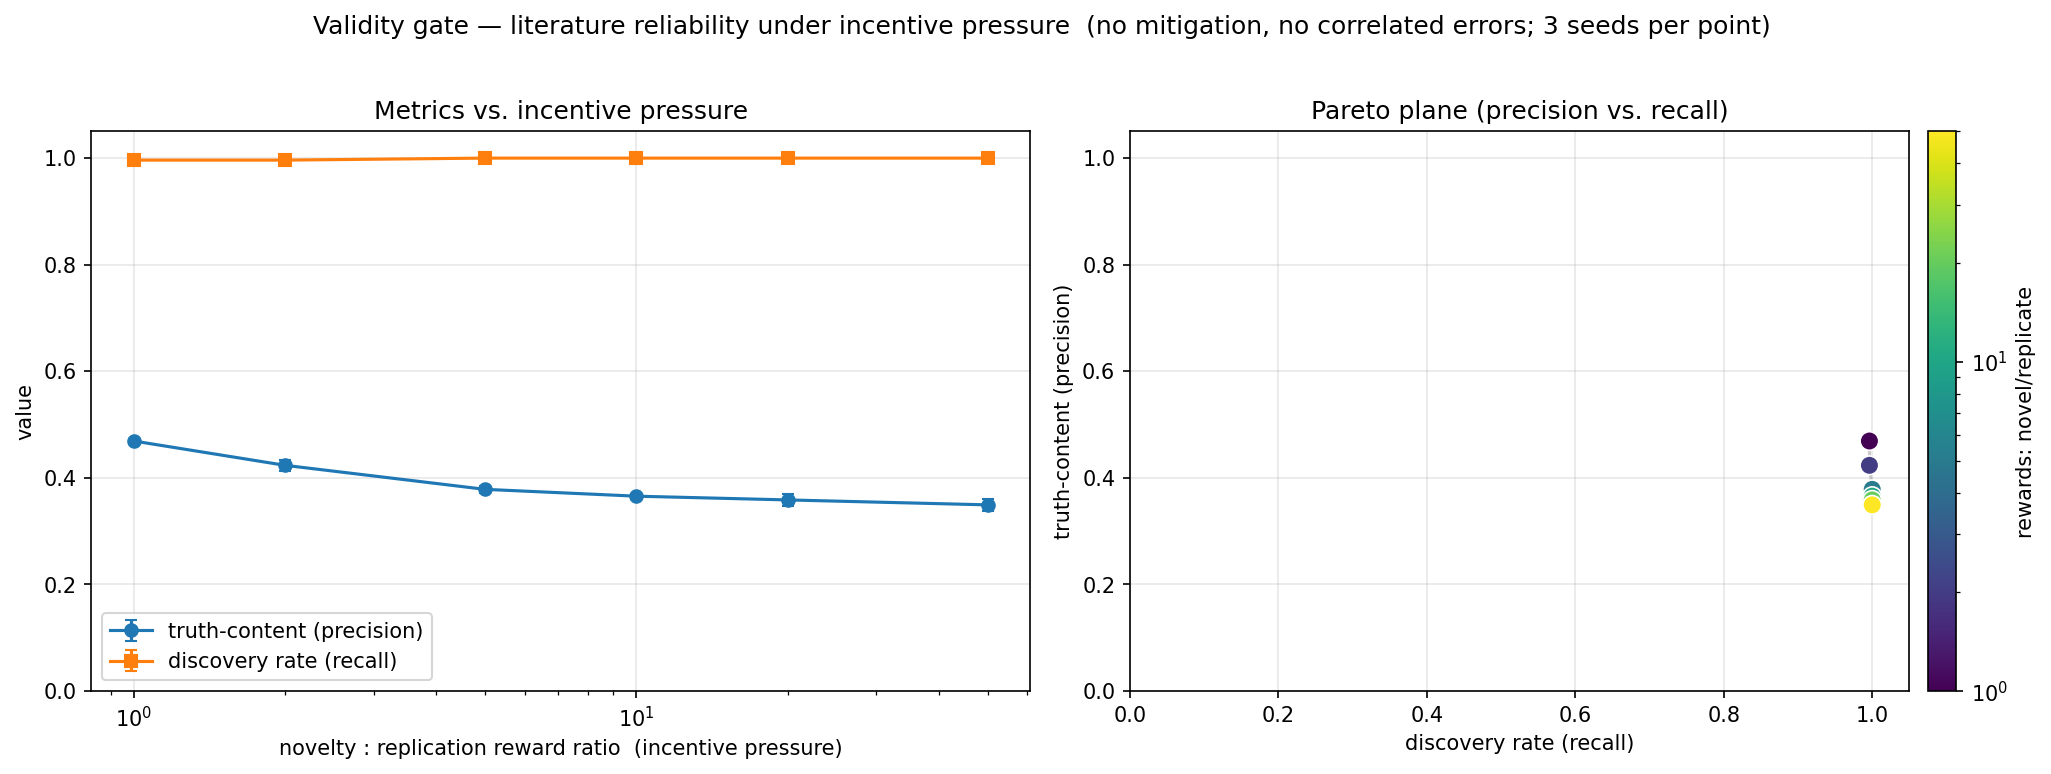
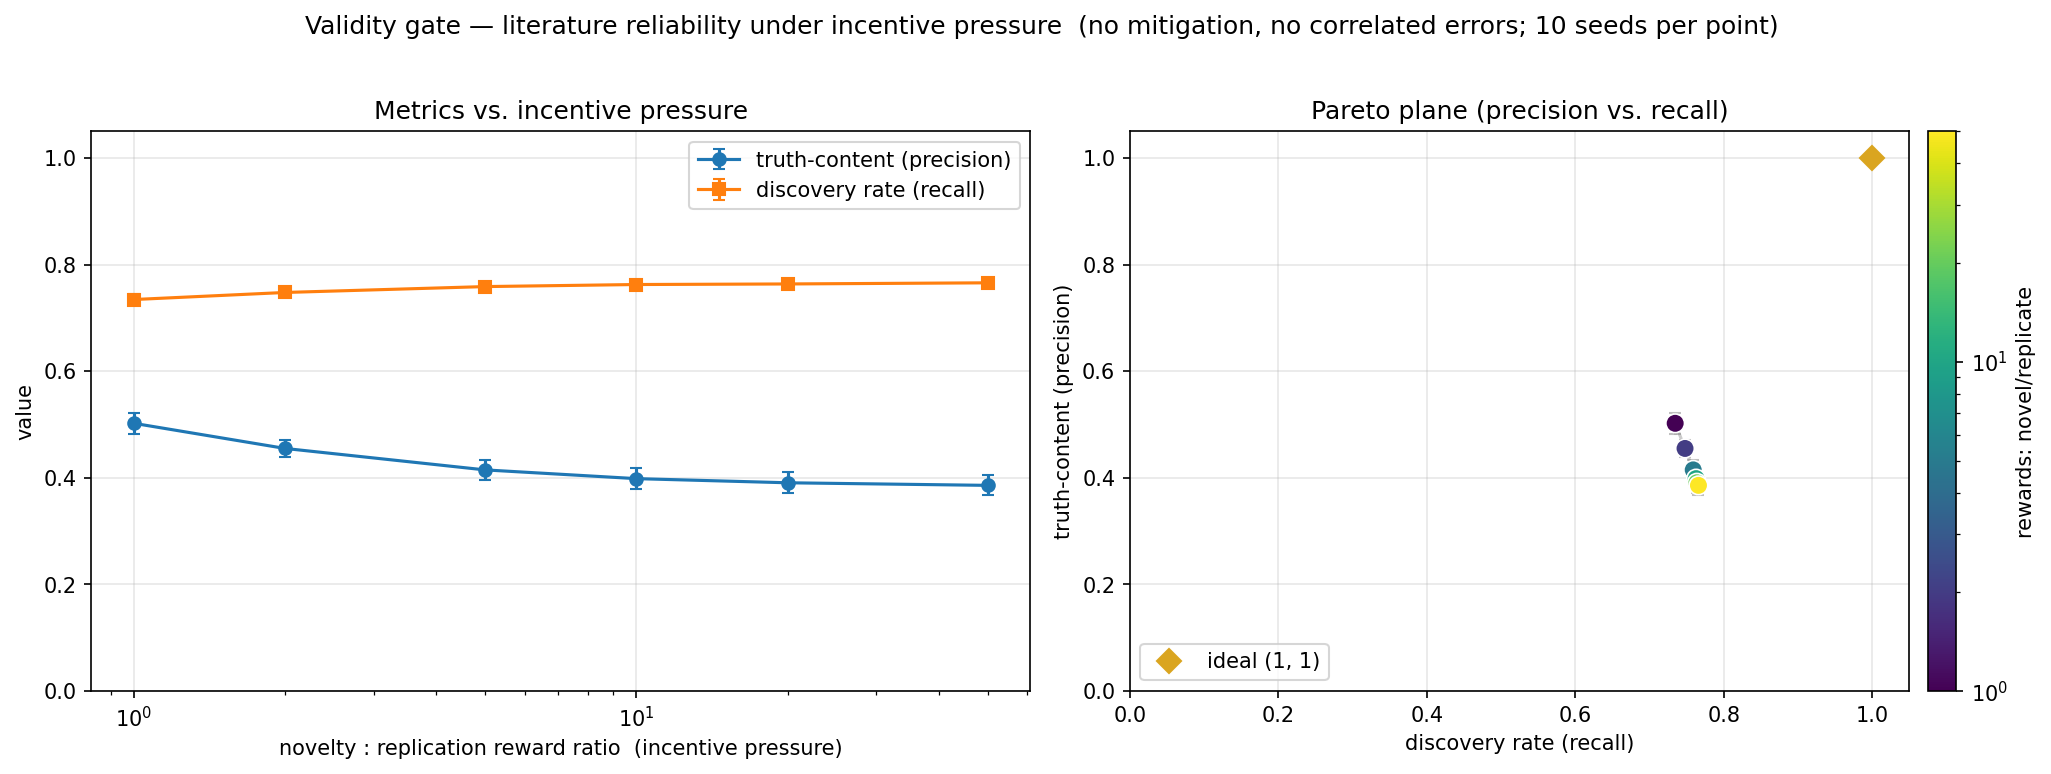
Phase 0: re-run at n_hypotheses=10000 for narrative consistency
Aligns Phase 0 with the Phase 1+ regime (vast hypothesis space, scarce
attention). Recall now sits in 0.73-0.77 instead of saturating at 1.0;
precision still falls from 0.50 to 0.39 across the novelty-weight sweep —
the validity-gate phenomenon is preserved and the example-runs README now
reads as one continuous experiment under one parameter regime.

Also bumped seeds 3 -> 10 to match Phase 1.C, added mark_ideal=True on the
Pareto plot for visual consistency.

diff --git a/scripts/run_baseline.py b/scripts/run_baseline.py
@@ -24,7 +24,7 @@ from __future__ import annotations
 import numpy as np
 import matplotlib.pyplot as plt
 
-from paper_chase.config import SimConfig, IncentiveConfig
+from paper_chase.config import SimConfig, IncentiveConfig, WorldConfig
 from paper_chase.simulation import run
 from paper_chase.plots import plot_metrics_vs_pressure, plot_pareto_plane
 from paper_chase.results_io import (
@@ -35,26 +35,35 @@ from paper_chase.results_io import (
 # Sweep the novelty reward, holding replication weight at 1.0. The ratio is the
 # "incentive pressure" axis: higher = stronger publish-or-perish.
 NOVELTY_WEIGHTS = [1.0, 2.0, 5.0, 10.0, 20.0, 50.0]
-N_SEEDS = 3                            # repeat each setting for sampling-variance control
+N_SEEDS = 10                           # repeat each setting for sampling-variance control
 REPLICATION_WEIGHT = 1.0
 EFFORT_COST_PER_SAMPLE = 0.02
+N_HYPOTHESES = 10_000                  # match Phase 1+ regime: a "vast hypothesis
+                                       # space, scarce attention" world where recall
+                                       # is not saturated — same parameter choice as
+                                       # the mitigation comparison, so the baseline
+                                       # → mitigations narrative reads as one
+                                       # continuous experiment.
 
 
 def main() -> None:
     # Per-run output directory.
-    params = f"nw{NOVELTY_WEIGHTS[0]:g}-{NOVELTY_WEIGHTS[-1]:g}_seeds{N_SEEDS}"
+    params = f"nw{NOVELTY_WEIGHTS[0]:g}-{NOVELTY_WEIGHTS[-1]:g}_seeds{N_SEEDS}_nh{N_HYPOTHESES}"
     run_dir = make_run_dir(experiment="baseline", params=params)
     print(f"Run dir: {run_dir}")
+
+    base_world = WorldConfig(n_hypotheses=N_HYPOTHESES, seed=0)
 
     # Save the full reproducibility record up front (config + sweep spec + git state).
     save_config_json(
         run_dir / "config.json",
-        base_cfg=SimConfig(),
+        base_cfg=SimConfig(world=base_world),
         sweep={
             "novelty_weights": list(NOVELTY_WEIGHTS),
             "n_seeds": N_SEEDS,
             "fixed_replication_weight": REPLICATION_WEIGHT,
             "fixed_effort_cost_per_sample": EFFORT_COST_PER_SAMPLE,
+            "n_hypotheses": N_HYPOTHESES,
         },
         git_state=capture_git_state(),
     )
@@ -68,6 +77,7 @@ def main() -> None:
         tcs, drs = [], []
         for seed in range(N_SEEDS):
             cfg = SimConfig(
+                world=base_world,
                 incentive=IncentiveConfig(
                     novel_weight=nw,
                     replication_weight=REPLICATION_WEIGHT,
@@ -110,6 +120,7 @@ def main() -> None:
         truth_means, truth_sds, discovery_means, discovery_sds,
         colorby=NOVELTY_WEIGHTS,
         colorby_label="rewards: novel/replicate",
+        mark_ideal=True,
         ax=ax_pareto,
     )
     fig.suptitle(

diff --git a/example-runs/README.md b/example-runs/README.md
@@ -9,25 +9,36 @@ versions. This is the public face of "what running this produces right now."
 ## Phase 0 — Validity gate
 
 **What was run.** Sweep of the novelty:replication reward ratio across
-{1, 2, 5, 10, 20, 50}, holding replication weight at 1.0; 3 seeds per
+{1, 2, 5, 10, 20, 50}, holding replication weight at 1.0; 10 seeds per
 condition. No mitigations, no correlated errors, parametric agents only.
+`n_hypotheses = 10,000` — the "vast hypothesis space, scarce attention"
+regime used throughout Phase 1+, so the baseline → mitigations narrative
+reads as one continuous experiment.
 Script: [`scripts/run_baseline.py`](../scripts/run_baseline.py).
 
 **Result.**
 
 ![Phase 0 validity gate](images/phase-0-validity-gate.png)
 
-**Interpretation.** Truth-content (precision) falls as the novelty:replication
-ratio rises — the qualitative replication-crisis dynamic the model is meant to
-reproduce. Discovery rate (recall) stays saturated near 1.0: with 50 agents
-over 500 steps, every true hypothesis gets studied enough times that at least
-one significant result lands eventually, so the standing literature catches
-them all. The Pareto-plane trajectory drifts from the upper-right toward the
-lower-right as pressure increases — same data, the precision–recall trade-off
+**Interpretation.** Truth-content (precision) falls from 0.50 (low pressure)
+to 0.39 (high pressure) as the novelty:replication ratio rises — the
+qualitative replication-crisis dynamic the model is meant to reproduce.
+Discovery rate (recall) sits in 0.73–0.77 across all conditions: with
+~22,500 novel actions spread over 10,000 hypotheses, the expected ~2.25
+studies per hypothesis is enough to detect most true effects at the
+configured per-study power (~0.71 without QRP, ~0.90 with moderate QRP) but
+not all of them. Recall rises very slightly with pressure because QRP
+inflates effective α and so raises true-positive detection alongside
+false-positive rate.
+
+The Pareto-plane trajectory (right panel) drifts from upper-position
+(low-pressure, dark) toward lower-position (high-pressure, yellow) at
+roughly constant recall — same data, the precision–recall trade-off
 visualised directly.
 
-Validity gate passed: the engine produces the known phenomenon under the
-simplest configuration, licensing the work to proceed to mitigations.
+Validity gate passed: the engine produces the known precision-decline
+phenomenon at non-saturating recall, licensing the work to proceed to
+mitigations.
 
 ---
 
